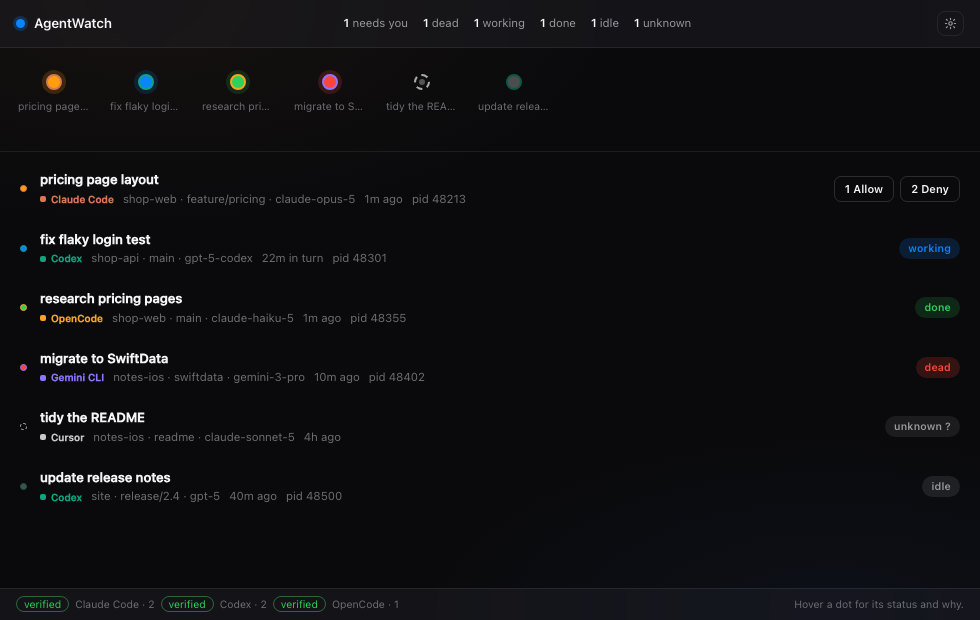
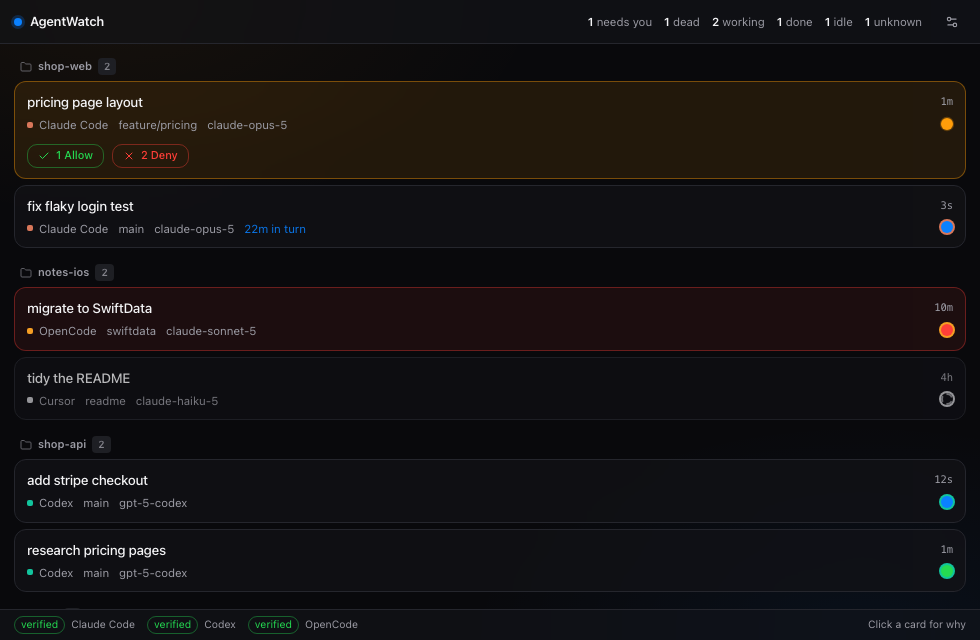
docs(ui): refresh the board screenshot from the new React stack

diff --git a/docs/UI.md b/docs/UI.md
@@ -1,5 +1,9 @@
 # UI tour
 
+> **Session 7:** the frontend was rebuilt on Vite + React + Tailwind + shadcn (D-017).
+> The screenshots below are from that stack; earlier vanilla captures are superseded.
+
+
 Every screenshot here is the **real frontend** (`src/index.html`, `styles.css`, `main.js`)
 rendered in headless Chrome with a mocked Tauri bridge. No design mockups — what you see is
 what ships.
